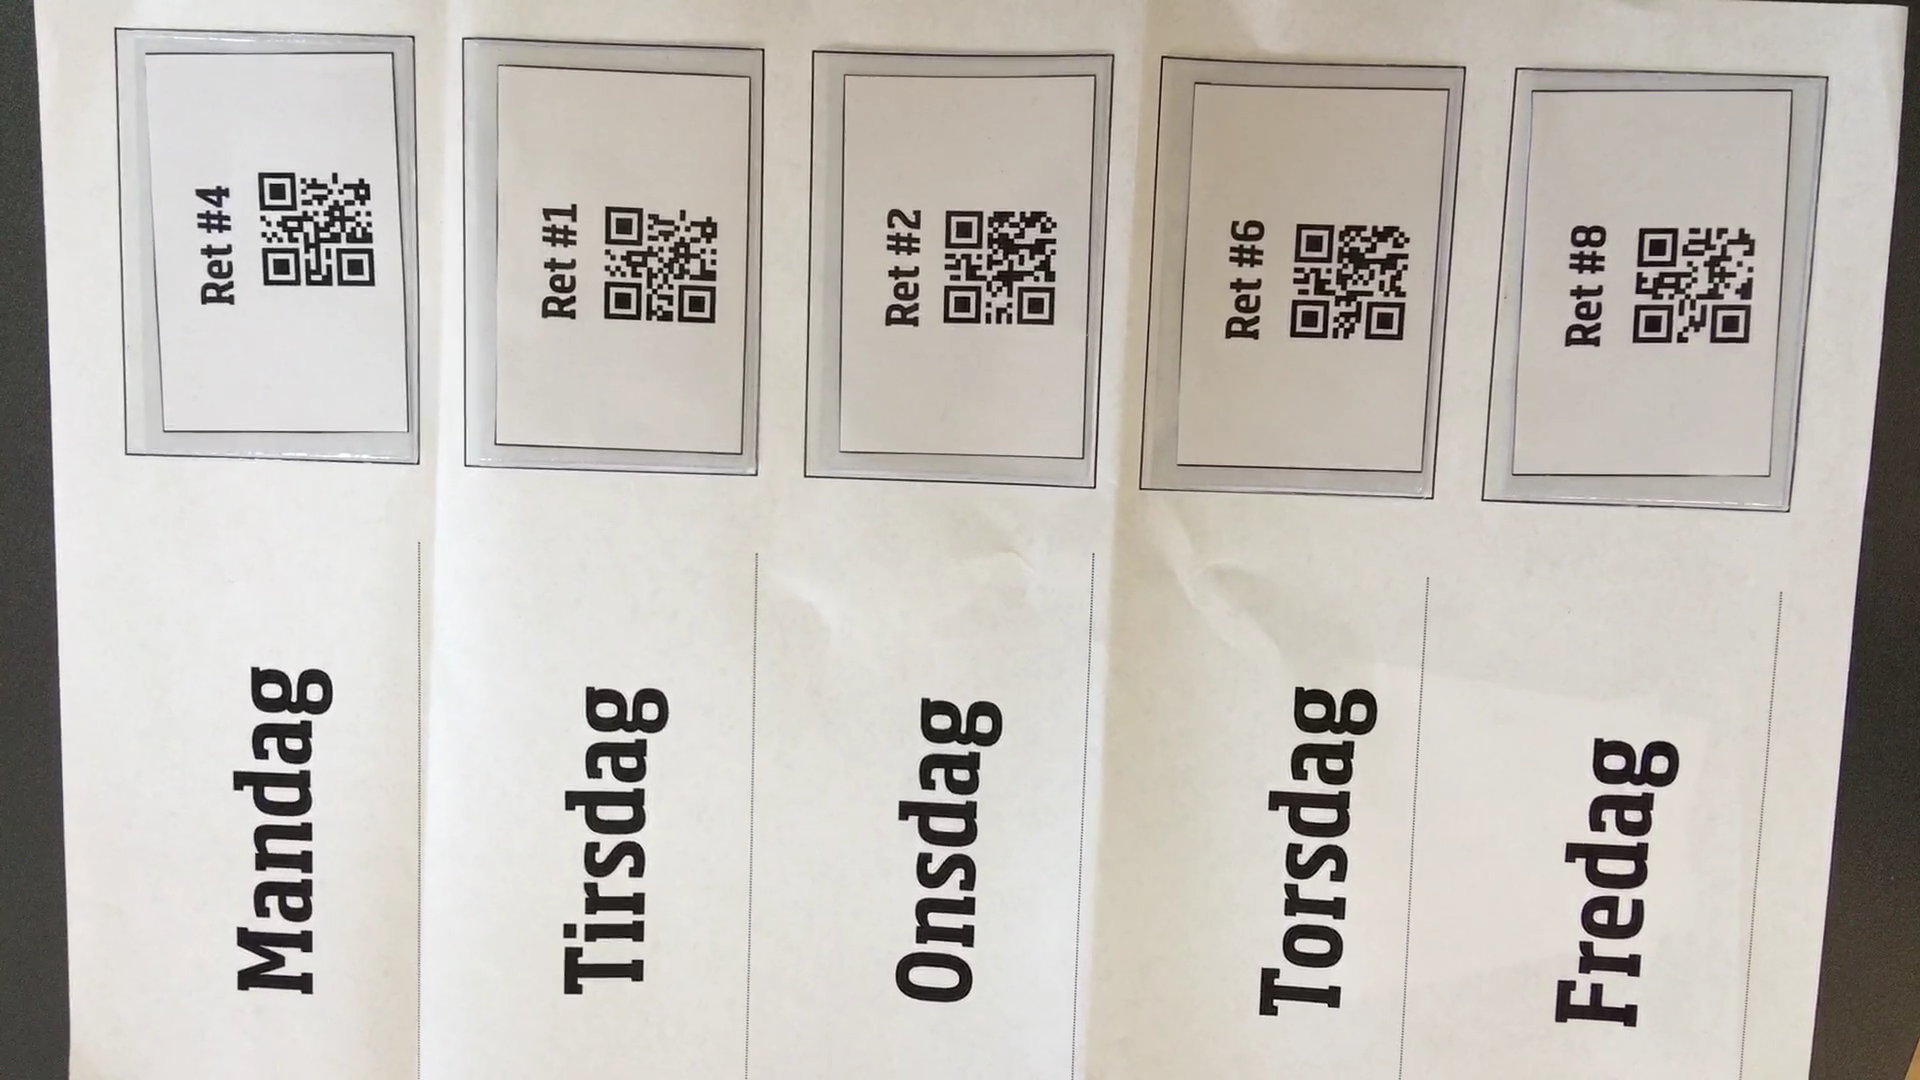
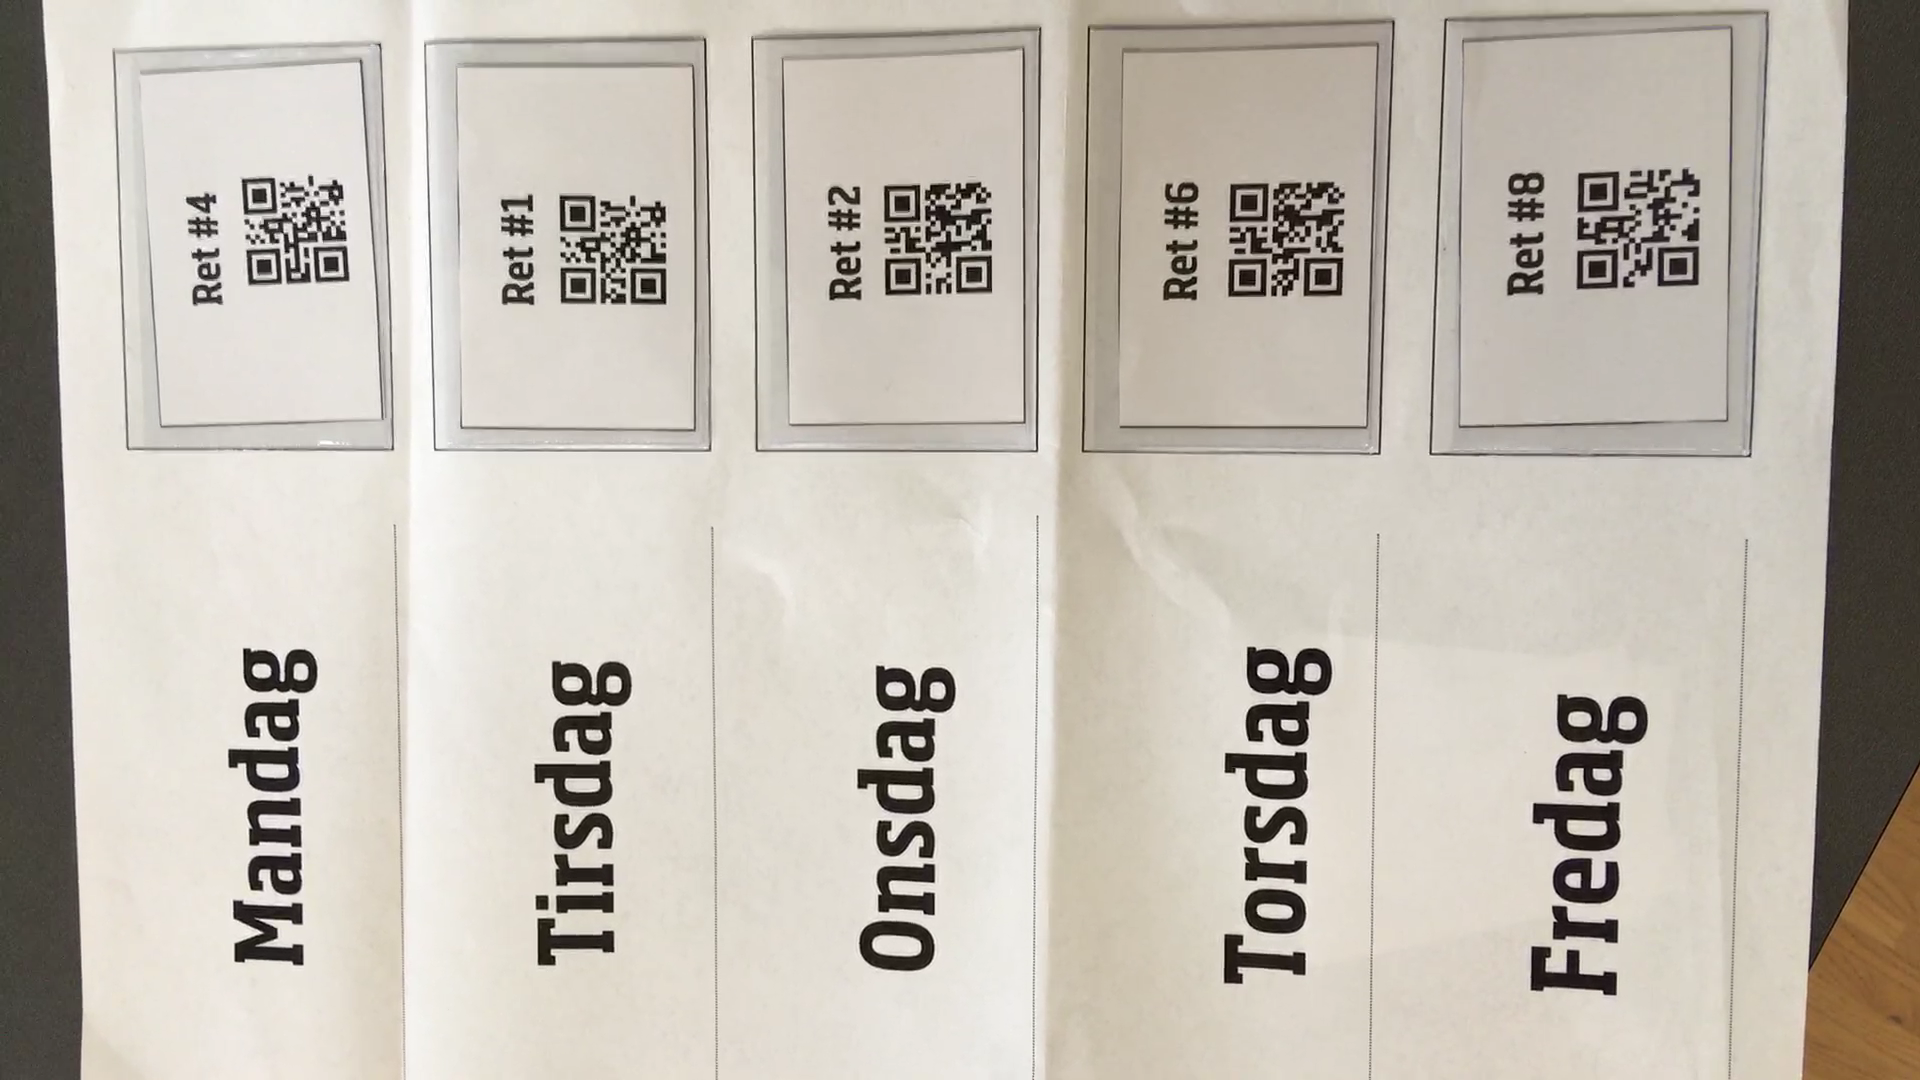
New exe files

diff --git a/Prototype/application.windows32/source/Coop_DigitalMadplan.java b/Prototype/application.windows32/source/Coop_DigitalMadplan.java
@@ -42,7 +42,8 @@ int rectSize1 = 1280/3-6;
 int rectSize2 =  123;
 
 int rectColor, rectHighlight;
-int[] colors = {color(255, 255, 0), color(255, 0, 255), color(0, 255, 255), color(255, 0, 0), color(0, 255, 0), color(0, 0, 255), color(255, 255, 255)};
+int[] colors = {color(255, 255, 0), color(255, 0, 255), color(0, 255, 255), 
+color(255, 0, 0), color(0, 255, 0), color(0, 0, 255), color(255, 255, 255)};
 
 PImage img;
 int x = 0;
@@ -51,8 +52,7 @@ Reader[] readers = new Reader[days];
 String[] opskrifter = new String[days];
 String[] dage = new String[days];
 
-public void setup()
-{
+public void setup(){
   String[] cameras = Capture.list();
 
   if (cameras.length == 0) {
@@ -103,16 +103,14 @@ public void setup()
   dage[4] = "Fredag";
 }
 
-public void draw()
-{
+public void draw(){
   update(mouseX, mouseY);
   if (camOn == true) takePictureMenu();
   else reader();
 }
 
 //controls the highlight of the button in th bottom
-public void update(int x, int y)
-{
+public void update(int x, int y){
   if ( overRect(rect1X, rect1Y, rectSize1, rectSize2) ) {
     rectOver1 = true;
   } else {
@@ -192,17 +190,17 @@ public void keyPressed() {
     camOn = true;
  }
 }
-public void takePictureMenu()
-{
+public void takePictureMenu(){
   camOn = true;
   background(246,251,249);
   if (cam.available() == true && camOn == true) {
     cam.read();
   }
+
   image(cam, 10, 10, cam.width/2, cam.height/2);
   
   //Button in the bottom
-  pushStyle();
+
   noStroke();
   if (rectOver2) {
     fill(rectHighlight);
@@ -215,15 +213,24 @@ public void takePictureMenu()
   textAlign(CENTER);
   textSize(48);
   text("Take Picture", width/2, height-70);
+  
+    for (int y = 0; y <  readers.length; y = y+1) {
+      pushStyle();
+      
+      stroke(colors[y]);
+      strokeWeight(4);
+      fill(0,0,0,0);
+      rect(25+(180*y), 55, 180, 180);
+      
+      popStyle();
+    }
 }
 
-public void takePicture()
-{
+public void takePicture(){
   cam.save("data/MadPlan.png");
 }
 
-class Reader
-{
+class Reader{
   int x;
   int y;
   int w;
@@ -235,8 +242,7 @@ class Reader
   boolean isThere = false;
 
 
-  Reader(int x, int y, int w, int h, PImage img2, int c)
-  {
+  Reader(int x, int y, int w, int h, PImage img2, int c){
     this.x = x;
     this.y = y;
     this.w = w;
@@ -247,8 +253,7 @@ class Reader
   }
 
   //function reading the image - it gets a part of the image and passes it to the libary decoding the images
-  public void read(PImage img)
-  {
+  public void read(PImage img){
     println("reading");
     qrReadArea = img.get(x*2, y*2, w*2, h*2); 
     decodedText = "";
@@ -269,8 +274,7 @@ class Reader
 
 
 
-  public void draw()
-  {
+  public void draw(){
     tint(255, 180);
     image(qrReadArea, x+10, y+10, w, h);
     tint(255, 255);
@@ -280,13 +284,11 @@ class Reader
     rect(x+10, y+10, w, h);
   }
   
- public int getPosX()
- {
+ public int getPosX(){
    return x;
  }
  
- public int getPosY()
- {
+ public int getPosY(){
    return y;
  }
 
@@ -294,12 +296,11 @@ class Reader
     return (mouseX > x && mouseX < x + w && mouseY > y && mouseY < y + h);
   } // mouseOver()
 }
-public void reader()
-{
+public void reader(){
   while (x < 1) {
   img = loadImage("MadPlan.png");
   for (int y = 0; y <  readers.length; y = y+1) {
-      readers[y] = new Reader(245, 54+(130*y), 120, 120, img, colors[y]);
+      readers[y] = new Reader(25+(180*y), 55, 180, 180, img, colors[y]);
       opskrifter[y] = "";
     }
     println("gogogo");

diff --git a/Prototype/application.windows64/source/Coop_DigitalMadplan.java b/Prototype/application.windows64/source/Coop_DigitalMadplan.java
@@ -42,7 +42,8 @@ int rectSize1 = 1280/3-6;
 int rectSize2 =  123;
 
 int rectColor, rectHighlight;
-int[] colors = {color(255, 255, 0), color(255, 0, 255), color(0, 255, 255), color(255, 0, 0), color(0, 255, 0), color(0, 0, 255), color(255, 255, 255)};
+int[] colors = {color(255, 255, 0), color(255, 0, 255), color(0, 255, 255), 
+color(255, 0, 0), color(0, 255, 0), color(0, 0, 255), color(255, 255, 255)};
 
 PImage img;
 int x = 0;
@@ -51,8 +52,7 @@ Reader[] readers = new Reader[days];
 String[] opskrifter = new String[days];
 String[] dage = new String[days];
 
-public void setup()
-{
+public void setup(){
   String[] cameras = Capture.list();
 
   if (cameras.length == 0) {
@@ -103,16 +103,14 @@ public void setup()
   dage[4] = "Fredag";
 }
 
-public void draw()
-{
+public void draw(){
   update(mouseX, mouseY);
   if (camOn == true) takePictureMenu();
   else reader();
 }
 
 //controls the highlight of the button in th bottom
-public void update(int x, int y)
-{
+public void update(int x, int y){
   if ( overRect(rect1X, rect1Y, rectSize1, rectSize2) ) {
     rectOver1 = true;
   } else {
@@ -192,17 +190,17 @@ public void keyPressed() {
     camOn = true;
  }
 }
-public void takePictureMenu()
-{
+public void takePictureMenu(){
   camOn = true;
   background(246,251,249);
   if (cam.available() == true && camOn == true) {
     cam.read();
   }
+
   image(cam, 10, 10, cam.width/2, cam.height/2);
   
   //Button in the bottom
-  pushStyle();
+
   noStroke();
   if (rectOver2) {
     fill(rectHighlight);
@@ -215,15 +213,24 @@ public void takePictureMenu()
   textAlign(CENTER);
   textSize(48);
   text("Take Picture", width/2, height-70);
+  
+    for (int y = 0; y <  readers.length; y = y+1) {
+      pushStyle();
+      
+      stroke(colors[y]);
+      strokeWeight(4);
+      fill(0,0,0,0);
+      rect(25+(180*y), 55, 180, 180);
+      
+      popStyle();
+    }
 }
 
-public void takePicture()
-{
+public void takePicture(){
   cam.save("data/MadPlan.png");
 }
 
-class Reader
-{
+class Reader{
   int x;
   int y;
   int w;
@@ -235,8 +242,7 @@ class Reader
   boolean isThere = false;
 
 
-  Reader(int x, int y, int w, int h, PImage img2, int c)
-  {
+  Reader(int x, int y, int w, int h, PImage img2, int c){
     this.x = x;
     this.y = y;
     this.w = w;
@@ -247,8 +253,7 @@ class Reader
   }
 
   //function reading the image - it gets a part of the image and passes it to the libary decoding the images
-  public void read(PImage img)
-  {
+  public void read(PImage img){
     println("reading");
     qrReadArea = img.get(x*2, y*2, w*2, h*2); 
     decodedText = "";
@@ -269,8 +274,7 @@ class Reader
 
 
 
-  public void draw()
-  {
+  public void draw(){
     tint(255, 180);
     image(qrReadArea, x+10, y+10, w, h);
     tint(255, 255);
@@ -280,13 +284,11 @@ class Reader
     rect(x+10, y+10, w, h);
   }
   
- public int getPosX()
- {
+ public int getPosX(){
    return x;
  }
  
- public int getPosY()
- {
+ public int getPosY(){
    return y;
  }
 
@@ -294,12 +296,11 @@ class Reader
     return (mouseX > x && mouseX < x + w && mouseY > y && mouseY < y + h);
   } // mouseOver()
 }
-public void reader()
-{
+public void reader(){
   while (x < 1) {
   img = loadImage("MadPlan.png");
   for (int y = 0; y <  readers.length; y = y+1) {
-      readers[y] = new Reader(245, 54+(130*y), 120, 120, img, colors[y]);
+      readers[y] = new Reader(25+(180*y), 55, 180, 180, img, colors[y]);
       opskrifter[y] = "";
     }
     println("gogogo");
